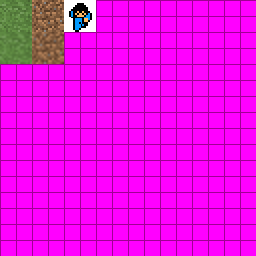
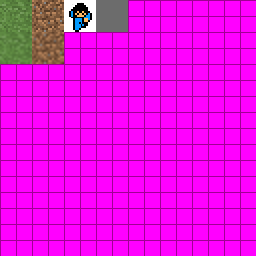
Worked on the font renderer

Changed region(s): [[0.375, 0.0, 0.5, 0.125]]

diff --git a/src/me/mbl/held/game/gfx/Font.java b/src/me/mbl/held/game/gfx/Font.java
@@ -2,9 +2,67 @@ package me.mbl.held.game.gfx;
 
 public class Font {
 
-	public static final String chars = "A";
+	public static final String chars = "" + //
+			"ABCDEFGHIJKLMNOP" + //
+			"QRSTUVWXYZ:[]!? " + //
+			"&";
 
-	
-	
-	
+	public static final int[] charWidth = {//
+	8, 8, 8, 8, 8, 7, 8, 8, 7, 8, 8, 8, 8, 8, 8, 7,//
+			8, 8, 8, 7, 8, 8, 8, 8, 8, 8, 3, 4, 4, 5, 6, 4, 0, 0 //
+	};
+
+	public static final int[] hexValues = { 0xFF99FF44, 0xFF00FFFF, 0xFFFF4444, 0xFFFF55FF, 0xFFFFFF00, 0xFFFFFFFF };
+
+	public static final int FONT_SHEET_WIDTH = 16;
+
+	public static void draw(String msg, Screen screen, int x, int y, int color) {
+		if (msg != null) {
+			int offs = 0;
+			if (msg.length() > 0) {
+				msg = msg.toUpperCase();
+				for (int i = 0; i < msg.length(); i++) {
+					int ix = chars.indexOf(msg.charAt(i));
+
+					if (ix == 32) {
+						if (chars.indexOf(msg.charAt(i + 1)) <=  6) {
+							color = hexValues[chars.indexOf(msg.charAt(i + 1))];
+							msg = msg.replaceFirst("&[A-F]", " ");
+						}
+					}
+
+					if (ix >= 0) {
+						screen.drawWithTint(Art.font[ix % FONT_SHEET_WIDTH][ix / FONT_SHEET_WIDTH], x + offs, y, color);
+						offs += charWidth[ix];
+					}
+				}
+			}
+		}
+	}
+
+	public static void drawWithShadow(String msg, Screen screen, int x, int y, int color) {
+		if (msg != null) {
+			int offs = 0;
+			if (msg.length() > 0) {
+				msg = msg.toUpperCase();
+				for (int i = 0; i < msg.length(); i++) {
+					int ix = chars.indexOf(msg.charAt(i));
+
+					if (ix == 32) {
+						if (chars.indexOf(msg.charAt(i + 1)) < 6) {
+							color = hexValues[chars.indexOf(msg.charAt(i + 1))];
+							msg = msg.replaceFirst("&[A-F]", " ");
+							continue;
+						}
+					}
+
+					if (ix >= 0) {
+						screen.drawWithTint(Art.font[ix % FONT_SHEET_WIDTH][ix / FONT_SHEET_WIDTH], x + offs, y + 1, 0xFF555555);
+						screen.drawWithTint(Art.font[ix % FONT_SHEET_WIDTH][ix / FONT_SHEET_WIDTH], x + offs, y, color);
+						offs += charWidth[ix];
+					}
+				}
+			}
+		}
+	}
 }

diff --git a/src/me/mbl/held/game/Game.java b/src/me/mbl/held/game/Game.java
@@ -4,6 +4,7 @@ import java.awt.Graphics;
 import java.awt.image.BufferStrategy;
 
 import me.mbl.held.game.gfx.Art;
+import me.mbl.held.game.gfx.Font;
 import me.mbl.held.game.gfx.Screen;
 
 public class Game extends GameBase {
@@ -64,11 +65,26 @@ public class Game extends GameBase {
 			}
 		}
 
-		screen.draw(Art.tiles[2][0], 50, 50);
+		screen.draw(Art.tiles[2][0], 100, 100);
 
 		screen.setOffset(0, 0);
 
-		screen.draw(Art.font[0][0], 0, 0);
+		Font.draw("Good morning", screen, 0, 0, 0xFF00FF00);
+		Font.drawWithShadow("remind you of minecraft with the shadow??", screen, 0, 8, 0xFFFFFFFF);
+		Font.drawWithShadow("&aremind &byou &cof &dminecraft &ewith &fthe shadow??", screen, 0, 8 * 2, 0xFFFFFFFF);
+		
+		//Slightly annoying that there is no alpha support... yet ;)
+		screen.drawColor(0, screen.h - 32 - 2 - 8, 196, 16 + 4, 0xFF222222);
+		
+		Font.drawWithShadow("[T]", screen, 0, screen.h - 32, 0xFFFF0000);
+		Font.drawWithShadow("mbl:", screen, 16, screen.h -32, 0xFF33AAFF);
+		Font.drawWithShadow(" Hey!!", screen, 16 + 27, screen.h - 32, 0xFFFFFFFF);
+		
+		Font.drawWithShadow("[Supop]", screen, 0, screen.h - 32 - 9, 0xFF00FFFF);
+		Font.drawWithShadow("heldplayer:", screen, 48, screen.h -32 - 9, 0xFF33AAFF);
+		Font.drawWithShadow(" Hi mbl", screen, 48 + 83, screen.h - 32 - 9, 0xFFFFFFFF);
+		
+		Font.draw("abcdefghijklmnopqrstuvwxyz[]:?!", screen, 0, 8 * 4, 0xFF00FFFF);
 		Graphics g = bs.getDrawGraphics();
 		g.fillRect(0, 0, getWidth(), getHeight());
 		int ww = WIDTH * SCALE;
@@ -92,9 +108,9 @@ public class Game extends GameBase {
 
 	public static void main(String[] args) {
 		Game game = new Game();
-		game.setSize(400);
+		game.setSize(480);
 		game.setName("Isometric Render");
-		game.SCALE = 3;
+		game.SCALE = 2;
 		game.createWindow();
 		game.start();
 	}

diff --git a/src/me/mbl/held/game/gfx/Screen.java b/src/me/mbl/held/game/gfx/Screen.java
@@ -8,7 +8,6 @@ public class Screen extends Bitmap {
 	public BufferedImage img;
 	private int xOff = 0;
 	private int yOff = 0;
-	private int transparentColor;
 
 	public static final int BIT_MIRROR_X = 0x01;
 	public static final int BIT_MIRROR_Y = 0x02;
@@ -66,10 +65,6 @@ public class Screen extends Bitmap {
 
 	public void drawIso(Bitmap bitmap, int x, int y) {
 		super.drawIso(bitmap, x - xOff, y - yOff);
-	}
-
-	public void setTransparent(int i) {
-		this.transparentColor = i;
 	}
 
 	public void setPixel(int x, int y, int color) {
